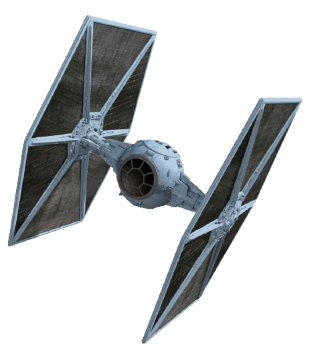
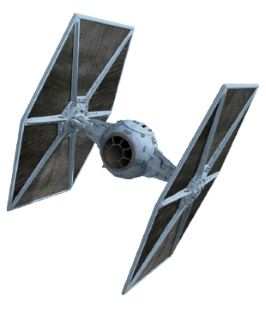
mise en page vaisseau

diff --git a/src/services/starship.service.ts b/src/services/starship.service.ts
@@ -45,7 +45,7 @@ export class StarshipService {
 
     const intercepteur = new Starship();
     intercepteur.name = 'Intercepteur TIE';
-    intercepteur.pathImage = path + 'intercepteur.jpg';
+    intercepteur.pathImage = path + 'intercepteur.png';
     intercepteur.faction = this.factionService.getArrayFaction()[0];
     intercepteur.hyperDrive = false;
     intercepteur.shielding = 15;
@@ -62,16 +62,18 @@ export class StarshipService {
     advanced.hitPoint = 610;
     advanced.addWeapon(this.weaponService.getArrayWeapon()[3]);
     advanced.addWeapon(this.weaponService.getArrayWeapon()[4]);
+    this.arrayStarships.push(advanced);
 
     const navette = new Starship();
     navette.name = 'Navette T-4a';
-    navette.pathImage = path + 'navette.jpg';
+    navette.pathImage = path + 'navette.png';
     navette.faction = this.factionService.getArrayFaction()[0];
     navette.hyperDrive = true;
     navette.shielding = 13;
     navette.hitPoint = 520;
     navette.addWeapon(this.weaponService.getArrayWeapon()[0]);
     navette.addWeapon(this.weaponService.getArrayWeapon()[5]);
+    this.arrayStarships.push(navette);
   }
 
   getArrayStarship(): Array<Starship> {

diff --git a/src/app/starship-faction/starship-faction.component.html b/src/app/starship-faction/starship-faction.component.html
@@ -1,13 +1,13 @@
 
 <div *ngIf="guidFaction; else noGuid">
-  <div *ngIf="starship.length > 0; else noStarship">
-    <div class="card-vaisseau" *ngFor="let star of starship">
-      <p>{{star.name}}</p>
-      <p>{{star.guid}}</p>
+  <div class="d-inline-flex justify-content-around" *ngIf="starship.length > 0; else noStarship">
+    <div  *ngFor="let star of starship">
+      <p class="title-planet">{{star.name}}</p>
       <img routerLink="planet/{{star.guid.toString()}}" src="{{star.pathImage}}" alt="{{star.name}}">
     </div>
   </div>
 </div>
+<br>
 <ng-template #noStarship>
   <p class="title-planet">This faction has no starship</p>
 </ng-template>

diff --git a/src/services/weapon.service.ts b/src/services/weapon.service.ts
@@ -34,14 +34,14 @@ export class WeaponService extends AbstractAttributesService{
 
     const ls9 = new Weapon();
     ls9.name = ' L-s9 Laser cannons';
-    ls9.pathImage = path + 'ls9.jpg';
+    ls9.pathImage = path + 'ls9.png';
     ls9.damage = 45;
     ls9.coolDown = 0;
     this.addAbstractAttributes(ls9);
 
     const missile = new Weapon();
     missile.name = 'Concussion missile';
-    missile.pathImage = path + 'concussion.jpg';
+    missile.pathImage = path + 'concussion.png';
     missile.damage = 65;
     missile.coolDown = 2;
     this.addAbstractAttributes(missile);

diff --git a/src/app/faction-index/faction-index.component.html b/src/app/faction-index/faction-index.component.html
@@ -11,7 +11,7 @@
     </div>
   </div>
 </div>
-<div id="imageId" class="text-center" >
+<div id="imageId" class="text-center my-5" >
   <app-starship-faction  [guidFaction]="selectGuidFaction"></app-starship-faction>
 </div>
 
